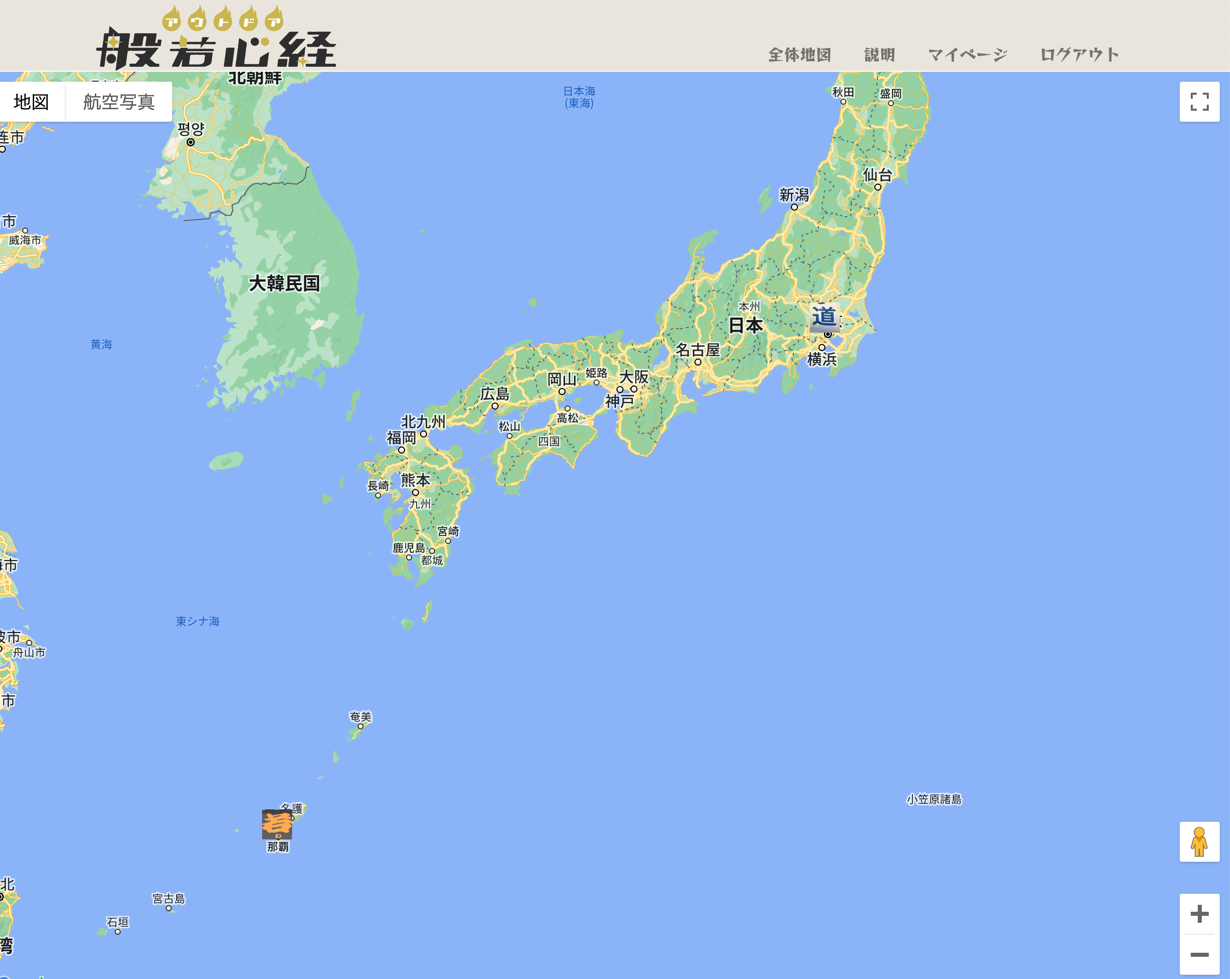
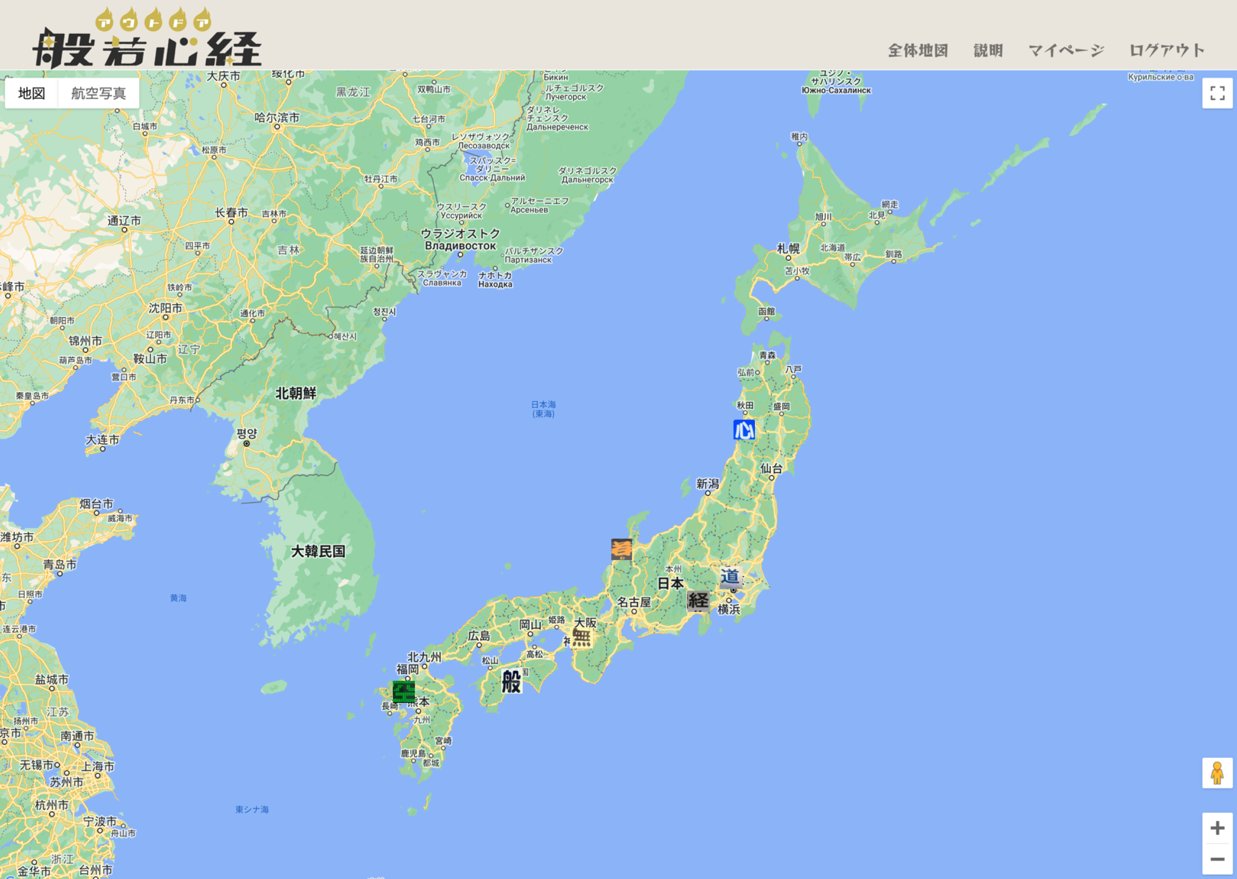
📝 READMEを修正する

diff --git a/README.md b/README.md
@@ -17,7 +17,7 @@ Google アカウントがあれば無料でご利用いただけます。
 https://www.outdoor-heart-sutra.com
 ```
 
-## 主な機能
+## 機能
 
 ### Google 認証ログイン
 
@@ -41,7 +41,7 @@ HEIC,JPEG,PNG 形式の写真を登録することができます。
 
 ### 全体地図の確認
 
-写経済みの漢字の位置情報を Google Maps 上で確認することができます。写真をクリックすると詳細ページに遷移できます。
+写経済みの文字の位置情報を Google Maps 上で確認することができます。写真をクリックすると詳細ページに遷移できます。
 ![readme_demo_maps.png](frontend/public/images/readme_demo_maps.png)
 
 ### マイページ
